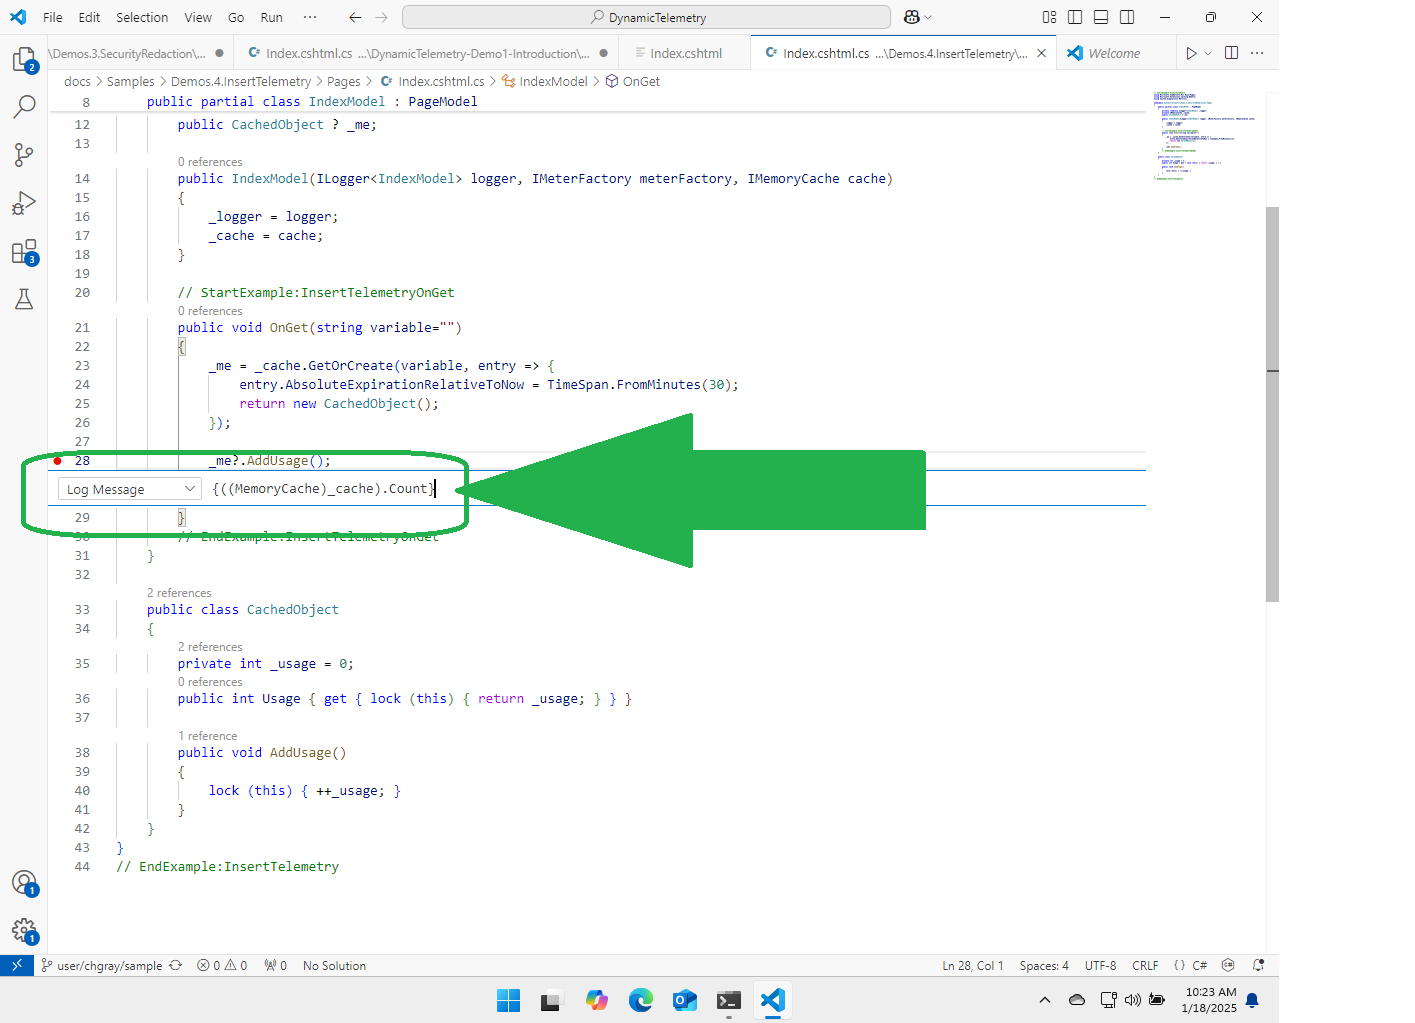
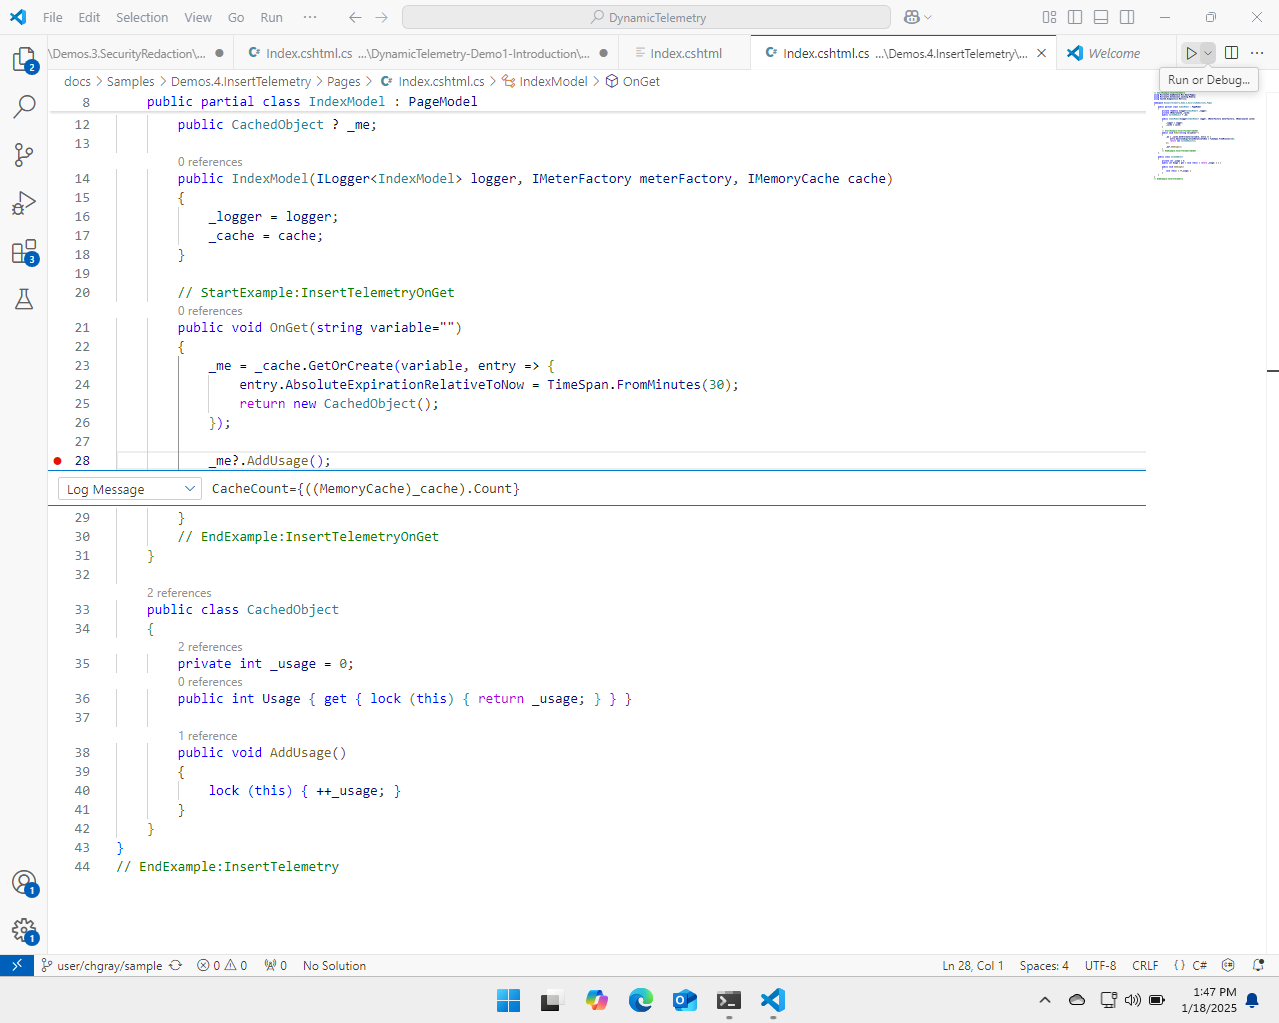
sample work

diff --git a/docs/Samples/Demos.4.InsertTelemetry/Pages/Index.cshtml.cs b/docs/Samples/Demos.4.InsertTelemetry/Pages/Index.cshtml.cs
@@ -20,14 +20,22 @@ namespace DynamicTelemetry_Demo_3_SecurityRedactions.Pages
         // StartExample:InsertTelemetryOnGet
         public void OnGet(string variable="")
         {
+            LogWelcome(_logger);
+
             _me = _cache.GetOrCreate(variable, entry => {
                 entry.AbsoluteExpirationRelativeToNow = TimeSpan.FromMinutes(30);
                 return new CachedObject();
             });
 
             _me?.AddUsage();
+
+           
         }
         // EndExample:InsertTelemetryOnGet
+
+        [LoggerMessage(Level = LogLevel.Information, Message = "OnGet:Welcome")]
+        static partial void LogWelcome(ILogger logger);
+
     }
 
     public class CachedObject
@@ -42,3 +50,24 @@ namespace DynamicTelemetry_Demo_3_SecurityRedactions.Pages
     }
 }
 // EndExample:InsertTelemetry
+
+/*
+// StartExample:KQL_Monitor
+//
+// Sample KQL query to monitor the CacheCount
+//
+traces
+| extend EventName = tostring(customDimensions.EventName)
+| project EventName, message, customDimensions, timestamp
+| extend CacheCount=toint(customDimensions.cacheLength)
+| summarize countif(EventName == "LogWelcome"), max(CacheCount) by bin(timestamp, 1m)
+| render timechart 
+// EndExample:KQL_Monitor 
+*/
+
+
+// 
+//  Notes: this sample dynamically simluates adding the below log message 
+//LogCacheLength(_logger, ((MemoryCache)_cache).Count);
+//[LoggerMessage(Level = LogLevel.Information, Message = "CacheCount={cacheLength}")]
+//static partial void LogCacheLength(ILogger logger, int cacheLength);

diff --git a/docs/docs/Demos.4.AddTelemetryDemo.md b/docs/docs/Demos.4.AddTelemetryDemo.md
@@ -6,7 +6,7 @@ status: ReviewLevel1
 # Diagnostic Demo : Dynamically Adding a Row of Telemetry
 In a live production system, diagnostics and debugging can be challenging due to log [scarcity](./PositionPaper.ScarcityAndHumans.md). This often leaves developers guessing about the behavior of their code. Sometimes, simply knowing the value of a variable or two can provide significant insights into the problem.
 
-In this example, we will use dynamic telemetry probes to insert a specialized breakpoint into our code. This will allow us to dynamically extract small amounts of memory and insert it into our existing OpenTelemetry pipelines.
+In this example, we will use Dynamic Telemetry probes to insert a specialized breakpoint into our code. This will allow us to dynamically extract small amounts of memory and insert it into our existing OpenTelemetry pipelines.
 
 ## Demo Overview
 
@@ -19,7 +19,7 @@ In short this demo will
 
 # Dynamically insert a row of telemetry to emit the contents of a variable into our standard OpenTelemetry pipelines.
 
-For this demo, we will make use of the [Breakpoint Probe](./Architecture.Probe.Breakpoint.document.md) concept in Dynamic telemetry, Our [Action](./Architecture.Action.Explanation.document.md). Will not be a complicated action such as collecting a memory dump, starting a CPU sample, or toggling on or off diagnostic logs, even though Each of these are a possibility.
+For this demo, we will make use of the [Breakpoint Probe](./Architecture.Probe.Breakpoint.document.md) concept in Dynamic Telemetry, Our [Action](./Architecture.Action.Explanation.document.md). Will not be a complicated action such as collecting a memory dump, starting a CPU sample, or toggling on or off diagnostic logs, even though Each of these are a possibility.
 
 For our application, we simply want to know the value of a memory variable when our probe is
 
@@ -38,7 +38,7 @@ Every time `OnGet` is called, a counter on the cached object will be incremented
 
 Please recall this sample is just that, a sample. To illustrate the use case, let's assume that as our system scales, we notice performance issues. Our development team suspects that the cache is getting full, causing paging issues on our drives. They are considering investigating the 30-minute time span, as it might be too long.
 
-To better understand the problem, the developers would like to know how many items are in the cache while under load. One of the developers got the idea to use dynamic telemetry to simply emit the cache size as a telemetry variable and then graph it using their standard OpenTelemetry pipelines.
+To better understand the problem, the developers would like to know how many items are in the cache while under load. One of the developers got the idea to use Dynamic Telemetry to simply emit the cache size as a telemetry variable and then graph it using their standard OpenTelemetry pipelines.
 
 ```cdocs_include
 {{ CSharp_Include("../Samples/Demos.4.InsertTelemetry/Pages/Index.cshtml.cs",
@@ -81,4 +81,45 @@ purposes.
 
 ## Connect to Application Insights and View / Graph / Alert this value.
 
-Because the break point probe conforms to a dynamic telemetry specification. The memory that is is collected will be emitted into a standard open telemetry. Logging message. That includes the. Desired contents.
+Because the breakpoint probe conforms to the Dynamic Telemetry specification, the collected memory will be emitted into a standard OpenTelemetry logging message that includes the desired contents.
+
+This is this is an interesting feature because within seconds of being deployed, telemetry is already being emitted.
+
+Rapid turnaround creates an environment where developers can quickly add telemetry, probe, cast nets, monitor, and learn without worrying about impacting their customers.
+
+In our example, we're trying to determine why or how the cache values are growing so quickly, if they are indeed growing.
+
+We use dynamic telemetry to deploy a scenario where we extract the number of items in the memory cache and emit it as a log message.
+
+As you can see in our query below, we plot the number of log welcome messages as one line and the maximum count as the other line.
+
+```cdocs_include
+{{ CSharp_Include("../Samples/Demos.4.InsertTelemetry/Pages/Index.cshtml.cs",
+    "// StartExample:KQL_Monitor",
+    "// EndExample:KQL_Monitor")
+}}
+```
+
+We then wait to see if the cache value increases due to some anomaly.
+
+![](../orig_media/Demos.4.AddDynamicTracePoint.VSCode.BeforeSpike.png)
+
+
+Sure enough. After a little bit of waiting. We see a case where the cash values grow.  (As indicated by the red line) Whereas the number of incoming requests remains roughly steady. (As indicated by the blue line)
+
+![](../orig_media/Demos.4.AddDynamicTracePoint.VSCode.AfterSpike.png)
+
+Even more interesting is the observation that the line grows very rapidly over a span of a few minutes and then flattens out before shrinking back down. Measuring the time delta across this indicates that the cache values grow linearly for a bit of time, hold for about 30 minutes, and then drop as they grew.
+
+A review of the code makes it obvious what is occurring.
+
+```cdocs_include
+{{ CSharp_Include("../Samples/Demos.4.InsertTelemetry/Pages/Index.cshtml.cs",
+    "// StartExample:InsertTelemetryOnGet",
+    "// EndExample:InsertTelemetryOnGet")
+}}
+```
+
+In this example for some reason. The calling clients are changing the variable coming in. In a way that each. Request is seemingly unique. They do this for a. Period. Short period of time and then it stops.
+
+Because this is a silly example, there's no reason that this occurring. However, the graphs make it obvious that that is what is occurring. The 30 minutes that we see is because the cash value has an absolute expiration time of 30 minutes.
